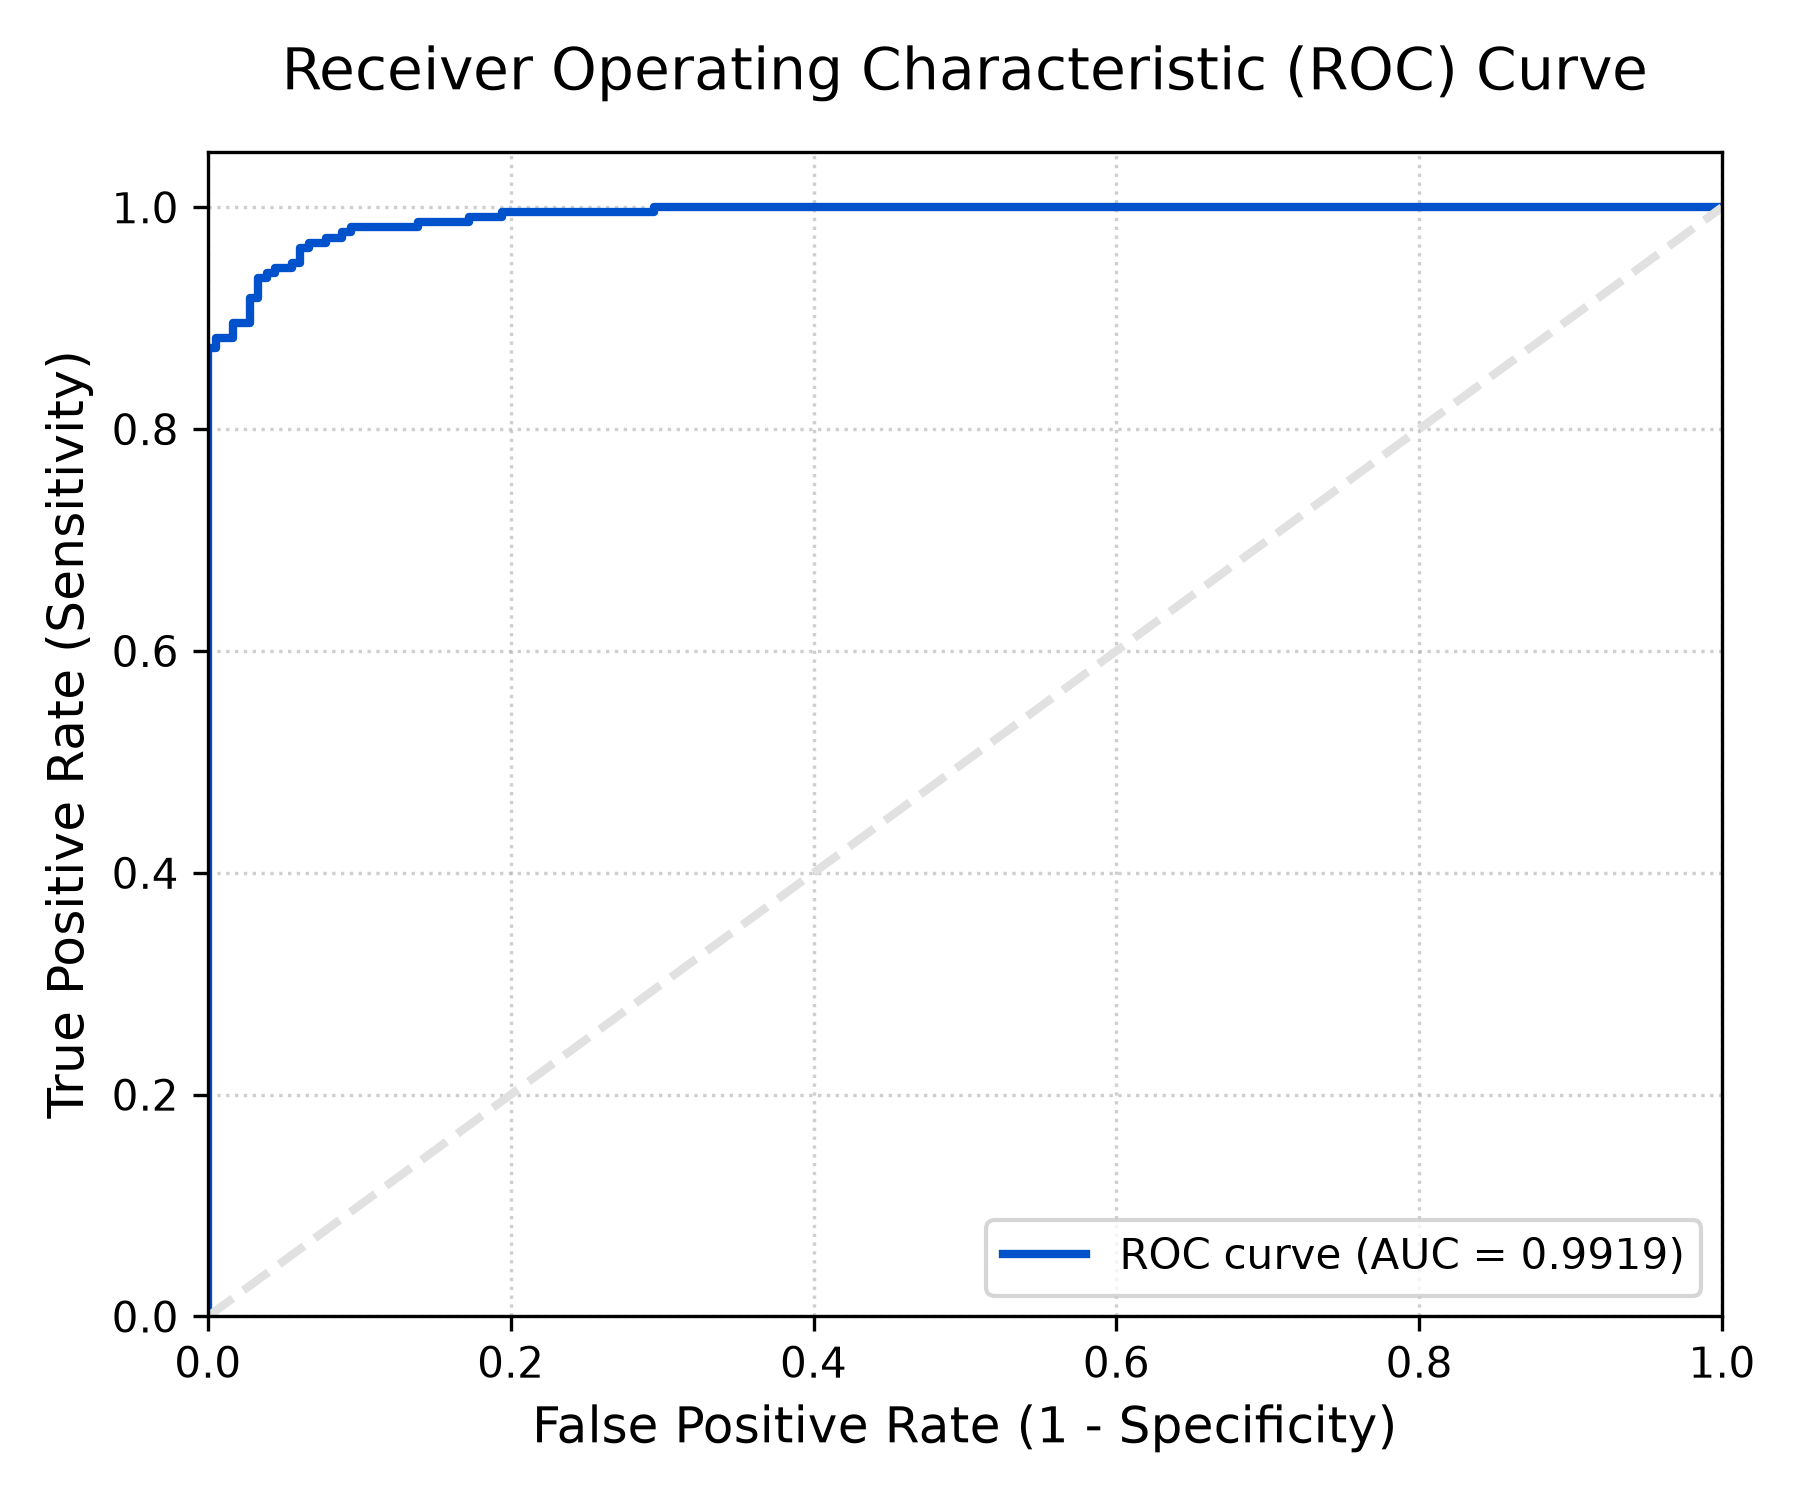
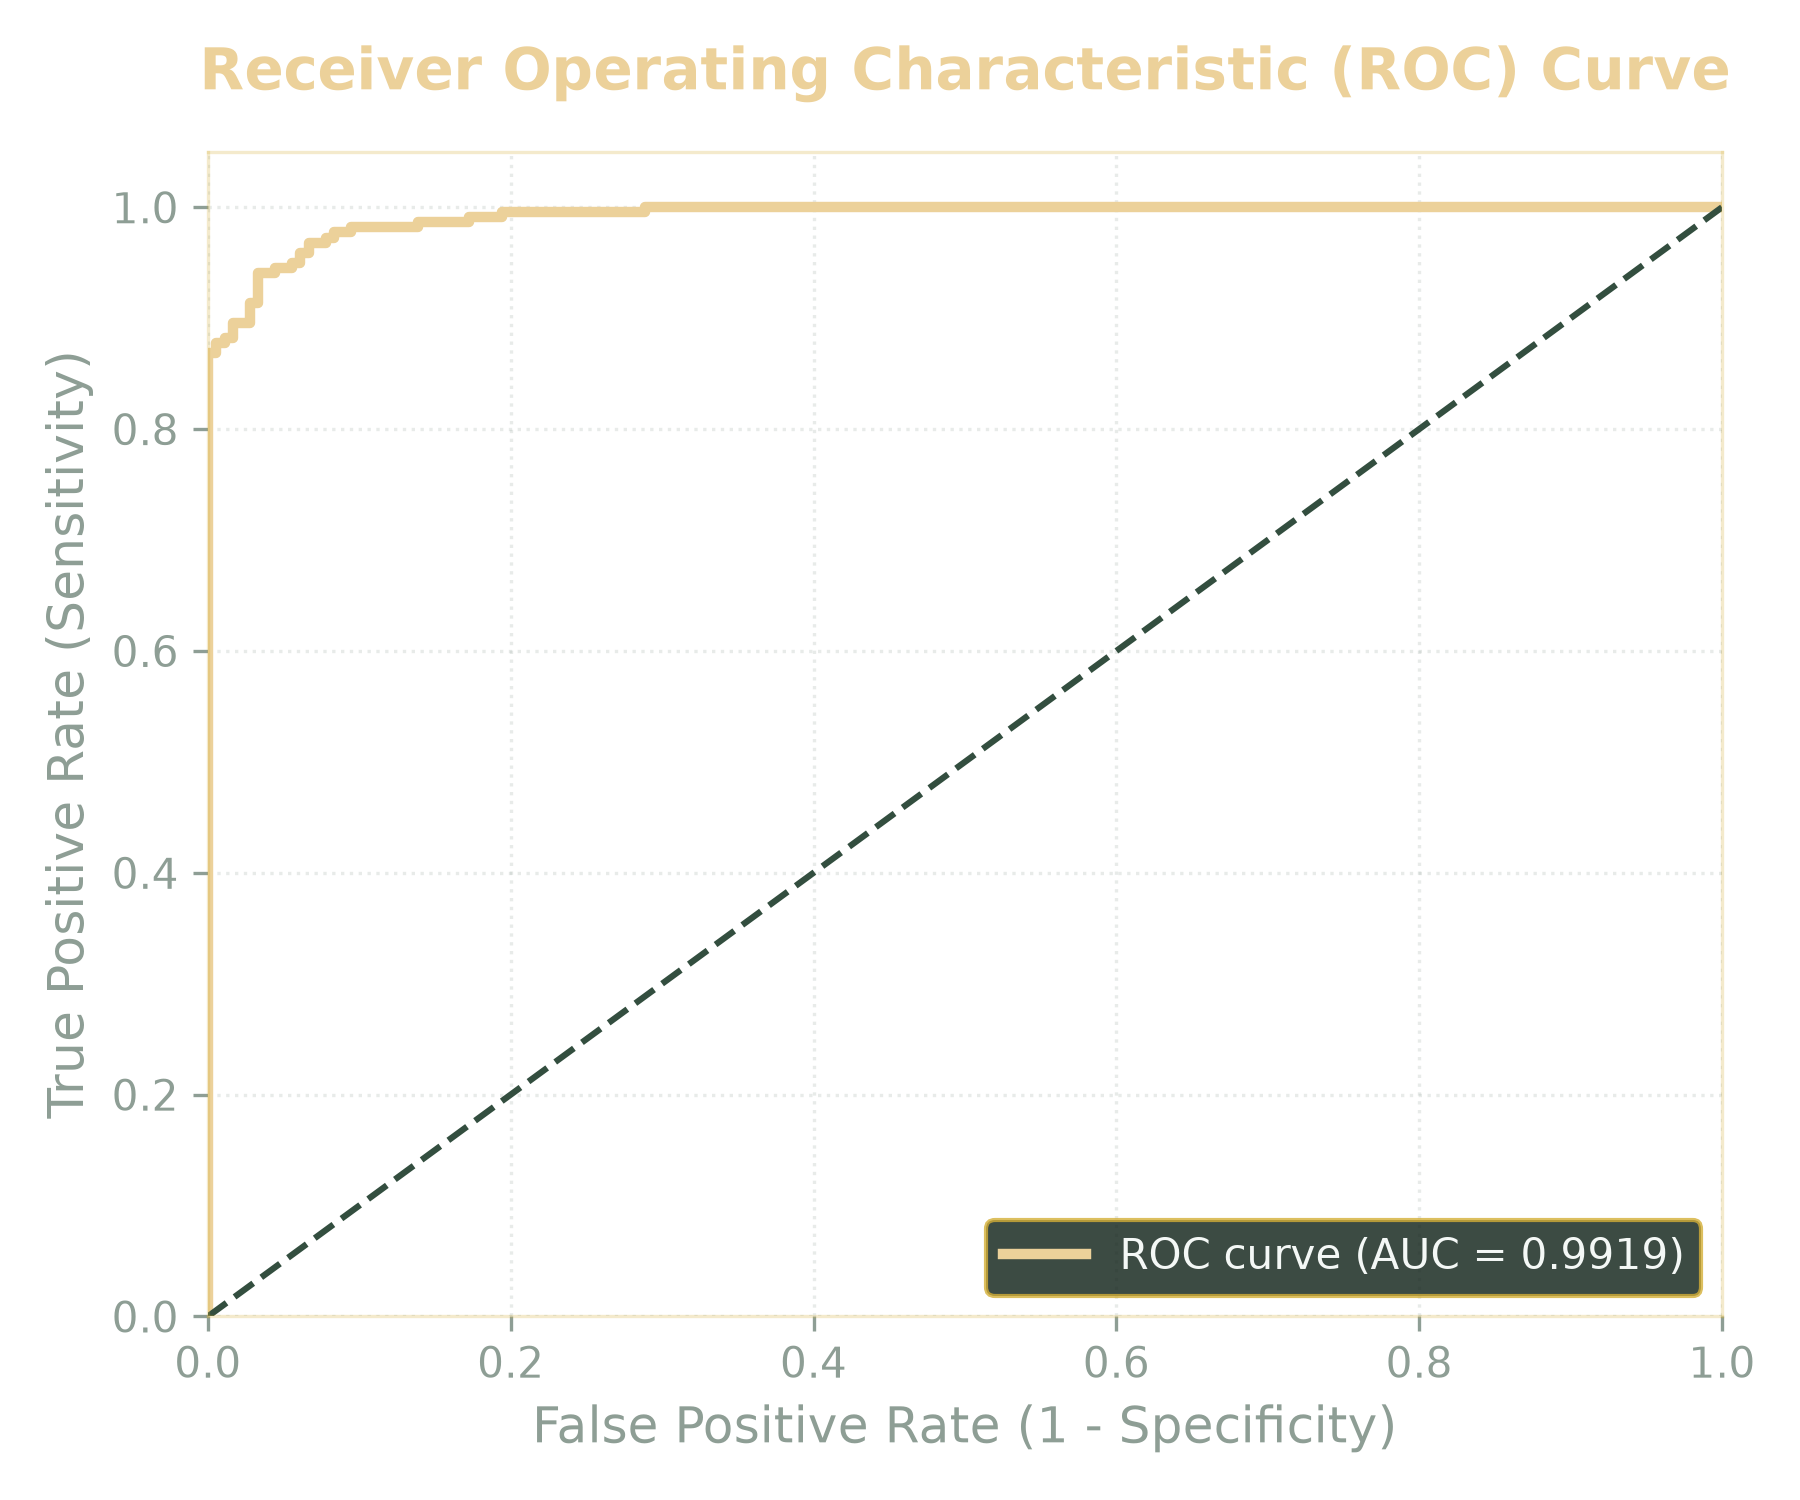
Update project files

diff --git a/static/css/style.css b/static/css/style.css
@@ -2,15 +2,15 @@
 
 /* --- Custom Properties & Color Systems --- */
 :root {
-    --bg-primary: #0a1128;
-    --bg-secondary: #101f42;
-    --bg-card: rgba(16, 31, 66, 0.6);
-    --border-color: rgba(0, 82, 204, 0.25);
+    --bg-primary: #0f172a;
+    --bg-secondary: #1e293b;
+    --bg-card: rgba(30, 41, 59, 0.75);
+    --border-color: rgba(99, 102, 241, 0.25);
     
-    --text-primary: #f1f5f9;
+    --text-primary: #f8fafc;
     --text-muted: #94a3b8;
-    --accent-blue: #0052cc;
-    --accent-cyan: #00f2fe;
+    --accent-blue: #6366f1;
+    --accent-cyan: #38bdf8;
     
     --success-color: #10b981;
     --warning-color: #f59e0b;
@@ -23,15 +23,15 @@
 
 /* Light Theme Variables overriding Root */
 [data-theme="light"] {
-    --bg-primary: #f0f2f5;
+    --bg-primary: #f8fafc;
     --bg-secondary: #ffffff;
-    --bg-card: rgba(255, 255, 255, 0.7);
-    --border-color: rgba(0, 82, 204, 0.15);
+    --bg-card: rgba(255, 255, 255, 0.85);
+    --border-color: rgba(99, 102, 241, 0.2);
     
     --text-primary: #0f172a;
-    --text-muted: #64748b;
-    --accent-blue: #0052cc;
-    --accent-cyan: #0d9488;
+    --text-muted: #475569;
+    --accent-blue: #4f46e5;
+    --accent-cyan: #0284c7;
     
     --success-color: #059669;
     --warning-color: #d97706;
@@ -94,7 +94,7 @@ body {
     color: #fff;
     font-weight: bold;
     font-size: 1.2rem;
-    box-shadow: 0 0 15px rgba(0, 242, 254, 0.4);
+    box-shadow: 0 0 15px rgba(99, 102, 241, 0.3);
 }
 
 .brand-name {
@@ -131,7 +131,7 @@ body {
 }
 
 .nav-item:hover, .nav-item.active {
-    background-color: rgba(0, 82, 204, 0.15);
+    background-color: rgba(191, 161, 95, 0.15);
     color: var(--accent-cyan);
 }
 
@@ -190,26 +190,33 @@ body {
 }
 
 .glass-card:hover {
-    box-shadow: 0 12px 40px 0 rgba(0, 242, 254, 0.1);
+    box-shadow: 0 12px 40px 0 rgba(99, 102, 241, 0.1);
 }
 
 /* Custom inputs styling */
 .form-control, .form-select {
-    background-color: rgba(16, 31, 66, 0.3) !important;
-    border: 1px solid var(--border-color) !important;
-    color: var(--text-primary) !important;
+    background-color: #1e293b !important;
+    border: 1px solid rgba(99, 102, 241, 0.4) !important;
+    color: #f8fafc !important;
     border-radius: 8px !important;
     padding: 10px 14px !important;
+    transition: border-color 0.2s, box-shadow 0.2s !important;
 }
 
 [data-theme="light"] .form-control, [data-theme="light"] .form-select {
-    background-color: rgba(255, 255, 255, 0.8) !important;
-    border: 1px solid var(--border-color) !important;
+    background-color: #ffffff !important;
+    border: 1px solid rgba(79, 70, 229, 0.4) !important;
+    color: #0f172a !important;
 }
 
 .form-control:focus, .form-select:focus {
     border-color: var(--accent-cyan) !important;
-    box-shadow: 0 0 10px rgba(0, 242, 254, 0.2) !important;
+    box-shadow: 0 0 0 3px rgba(56, 189, 248, 0.25) !important;
+}
+
+[data-theme="light"] .form-control:focus, [data-theme="light"] .form-select:focus {
+    border-color: var(--accent-cyan) !important;
+    box-shadow: 0 0 0 3px rgba(2, 132, 199, 0.2) !important;
 }
 
 /* Neon buttons */
@@ -220,13 +227,13 @@ body {
     font-weight: 600;
     padding: 10px 24px;
     border-radius: 8px;
-    box-shadow: 0 4px 15px rgba(0, 242, 254, 0.3);
+    box-shadow: 0 4px 15px rgba(99, 102, 241, 0.25);
     transition: all 0.3s;
 }
 
 .btn-primary-neon:hover {
     transform: translateY(-2px);
-    box-shadow: 0 6px 20px rgba(0, 242, 254, 0.5);
+    box-shadow: 0 6px 20px rgba(99, 102, 241, 0.45);
     color: #fff;
 }
 
@@ -295,14 +302,14 @@ body {
     border-radius: 12px;
     padding: 40px;
     text-align: center;
-    background-color: rgba(16, 31, 66, 0.2);
+    background-color: rgba(99, 102, 241, 0.05);
     cursor: pointer;
     transition: all var(--transition-speed);
 }
 
 .drag-drop-zone:hover, .drag-drop-zone.dragover {
     border-color: var(--accent-cyan);
-    background-color: rgba(16, 31, 66, 0.4);
+    background-color: rgba(99, 102, 241, 0.12);
 }
 
 /* Tables styling */
@@ -312,7 +319,7 @@ body {
 }
 
 .custom-table th {
-    background-color: rgba(16, 31, 66, 0.5);
+    background-color: var(--bg-secondary);
     color: var(--accent-cyan);
     font-weight: 600;
     padding: 14px 16px;
@@ -355,7 +362,7 @@ body {
 .banking-loader {
     width: 48px;
     height: 48px;
-    border: 5px solid rgba(0, 242, 254, 0.1);
+    border: 5px solid rgba(99, 102, 241, 0.15);
     border-top-color: var(--accent-cyan);
     border-radius: 50%;
     animation: rotate-loader 1s infinite linear;

diff --git a/templates/dashboard.html b/templates/dashboard.html
@@ -1,6 +1,6 @@
 {% extends 'base.html' %}
 
-{% block title %}Executive Board | Vanguard Credit Services{% endblock %}
+{% block title %}Executive Board | Apex Credit Services{% endblock %}
 {% block header_title %}Executive Analytics Board{% endblock %}
 
 {% block content %}
@@ -163,8 +163,8 @@
                 labels: ['Approved', 'Rejected'],
                 datasets: [{
                     data: [{{ stats.approved_count }}, {{ stats.rejected_count }}],
-                    backgroundColor: ['#10b981', '#ef4444'],
-                    borderColor: 'rgba(0, 82, 204, 0.15)',
+                    backgroundColor: ['#10b981', '#f87171'],
+                    borderColor: 'rgba(212, 175, 55, 0.15)',
                     borderWidth: 2
                 }]
             },
@@ -174,7 +174,7 @@
                 plugins: {
                     legend: {
                         position: 'bottom',
-                        labels: { color: '#94a3b8', font: { family: 'Outfit' } }
+                        labels: { color: '#8e9e95', font: { family: 'Outfit' } }
                     }
                 }
             }
@@ -191,8 +191,8 @@
                     label: 'Applicant Frequency',
                     // Let's seed mock counts or calculate from database later if needed. For now, seed realistic numbers
                     data: [12, 28, 45, 30, 15],
-                    backgroundColor: 'rgba(0, 242, 254, 0.4)',
-                    borderColor: '#00f2fe',
+                    backgroundColor: 'rgba(212, 175, 55, 0.4)',
+                    borderColor: '#ecd19a',
                     borderWidth: 2,
                     borderRadius: 4
                 }]
@@ -204,8 +204,8 @@
                     legend: { display: false }
                 },
                 scales: {
-                    x: { ticks: { color: '#94a3b8', font: { family: 'Outfit' } }, grid: { display: false } },
-                    y: { ticks: { color: '#94a3b8' }, grid: { color: 'rgba(255,255,255,0.05)' } }
+                    x: { ticks: { color: '#8e9e95', font: { family: 'Outfit' } }, grid: { display: false } },
+                    y: { ticks: { color: '#8e9e95' }, grid: { color: 'rgba(255,255,255,0.05)' } }
                 }
             }
         });

diff --git a/templates/about.html b/templates/about.html
@@ -1,15 +1,15 @@
 {% extends 'base.html' %}
 
-{% block title %}About | Vanguard Credit Services{% endblock %}
+{% block title %}About | Apex Credit Services{% endblock %}
 {% block header_title %}About Technical Specifications{% endblock %}
 
 {% block content %}
 <div class="row justify-content-center">
     <div class="col-lg-10">
         <div class="glass-card">
-            <h2 class="h4 font-weight-bold mb-3" style="color: var(--accent-cyan);">Vanguard Credit Risk Engine Overview</h2>
+            <h2 class="h4 font-weight-bold mb-3" style="color: var(--accent-cyan);">Apex Credit Risk Engine Overview</h2>
             <p class="text-muted">
-                Vanguard Credit Services is an industry-grade machine learning platform built to provide banking analysts with automated, real-time, and explainable credit card approval evaluations. 
+                Apex Credit Services is an industry-grade machine learning platform built to provide banking analysts with automated, real-time, and explainable credit card approval evaluations. 
             </p>
             <p class="text-muted">
                 The engine aligns with modern institutional risk auditing requirements (such as Basel III frameworks) by combining competitive predictive performance with complete transparency behind each decision.
@@ -19,7 +19,7 @@
         <div class="glass-card">
             <h3 class="h5 font-weight-bold mb-3"><i class="fas fa-gears me-2"></i> The Machine Learning Architecture</h3>
             <p class="text-muted small">
-                Instead of relying on a single static model, Vanguard implements a dynamic **Ensemble Evaluation Pipeline**. Every time a training cycle is triggered, the engine runs 9 different classification paradigms:
+                Instead of relying on a single static model, Apex implements a dynamic **Ensemble Evaluation Pipeline**. Every time a training cycle is triggered, the engine runs 9 different classification paradigms:
             </p>
             
             <div class="row g-3 my-2">
@@ -65,7 +65,7 @@
         <div class="glass-card">
             <h3 class="h5 font-weight-bold mb-3"><i class="fas fa-shield-halved me-2"></i> Institutional Compliance & Security</h3>
             <p class="text-muted small mb-0">
-                To meet strict security standards, Vanguard implements multi-tiered protections:
+                To meet strict security standards, Apex implements multi-tiered protections:
             </p>
             <ul class="text-muted small mt-2">
                 <li><strong>Anti-Injection Guardrails:</strong> Strict SQLAlchemy parameters prevent SQL injection across authentication and history endpoints.</li>

diff --git a/static/js/main.js b/static/js/main.js
@@ -6,7 +6,7 @@ document.addEventListener('DOMContentLoaded', () => {
     const rootElement = document.documentElement;
     
     // Check saved theme or default to dark
-    const savedTheme = localStorage.getItem('vanguard-theme') || 'dark';
+    const savedTheme = localStorage.getItem('apex-theme') || 'dark';
     rootElement.setAttribute('data-theme', savedTheme);
     updateThemeIcon(savedTheme);
     
@@ -15,7 +15,7 @@ document.addEventListener('DOMContentLoaded', () => {
             const currentTheme = rootElement.getAttribute('data-theme');
             const newTheme = currentTheme === 'light' ? 'dark' : 'light';
             rootElement.setAttribute('data-theme', newTheme);
-            localStorage.setItem('vanguard-theme', newTheme);
+            localStorage.setItem('apex-theme', newTheme);
             updateThemeIcon(newTheme);
         });
     }

diff --git a/templates/base.html b/templates/base.html
@@ -3,9 +3,9 @@
 <head>
     <meta charset="UTF-8">
     <meta name="viewport" content="width=device-width, initial-scale=1.0">
-    <title>{% block title %}Vanguard Credit Services | AI Prediction Dashboard{% endblock %}</title>
+    <title>{% block title %}Apex Credit Services | AI Prediction Dashboard{% endblock %}</title>
     <meta name="description" content="AI-Powered Credit Card Approval Prediction System leveraging advanced machine learning algorithms.">
-    <meta name="author" content="Vanguard Finance">
+    <meta name="author" content="Apex Finance">
     
     <!-- Fonts and Icons -->
     <link href="https://fonts.googleapis.com/css2?family=Outfit:wght@300;400;500;600;700;800&family=Inter:wght@300;400;500;600;700&display=swap" rel="stylesheet">

diff --git a/templates/admin_logs.html b/templates/admin_logs.html
@@ -1,6 +1,6 @@
 {% extends 'base.html' %}
 
-{% block title %}System Logs | Vanguard Credit Services{% endblock %}
+{% block title %}System Logs | Apex Credit Services{% endblock %}
 {% block header_title %}System Audit Logs{% endblock %}
 
 {% block content %}

diff --git a/templates/admin_settings.html b/templates/admin_settings.html
@@ -1,6 +1,6 @@
 {% extends 'base.html' %}
 
-{% block title %}System Settings | Vanguard Credit Services{% endblock %}
+{% block title %}System Settings | Apex Credit Services{% endblock %}
 {% block header_title %}System Parameters Configuration{% endblock %}
 
 {% block content %}

diff --git a/templates/admin_users.html b/templates/admin_users.html
@@ -1,6 +1,6 @@
 {% extends 'base.html' %}
 
-{% block title %}Manage Users | Vanguard Credit Services{% endblock %}
+{% block title %}Manage Users | Apex Credit Services{% endblock %}
 {% block header_title %}Analyst Accounts Registry{% endblock %}
 
 {% block content %}

diff --git a/templates/batch.html b/templates/batch.html
@@ -1,6 +1,6 @@
 {% extends 'base.html' %}
 
-{% block title %}Batch Upload | Vanguard Credit Services{% endblock %}
+{% block title %}Batch Upload | Apex Credit Services{% endblock %}
 {% block header_title %}Batch Processing Center{% endblock %}
 
 {% block content %}

diff --git a/templates/contact.html b/templates/contact.html
@@ -1,6 +1,6 @@
 {% extends 'base.html' %}
 
-{% block title %}Contact Us | Vanguard Credit Services{% endblock %}
+{% block title %}Contact Us | Apex Credit Services{% endblock %}
 {% block header_title %}Analyst Support Desk{% endblock %}
 
 {% block content %}

diff --git a/templates/errors/403.html b/templates/errors/403.html
@@ -1,6 +1,6 @@
 {% extends 'base.html' %}
 
-{% block title %}403 Forbidden | Vanguard Credit Services{% endblock %}
+{% block title %}403 Forbidden | Apex Credit Services{% endblock %}
 {% block header_title %}Access Denied{% endblock %}
 
 {% block content %}

diff --git a/templates/errors/404.html b/templates/errors/404.html
@@ -1,6 +1,6 @@
 {% extends 'base.html' %}
 
-{% block title %}404 Not Found | Vanguard Credit Services{% endblock %}
+{% block title %}404 Not Found | Apex Credit Services{% endblock %}
 {% block header_title %}Route Not Found{% endblock %}
 
 {% block content %}